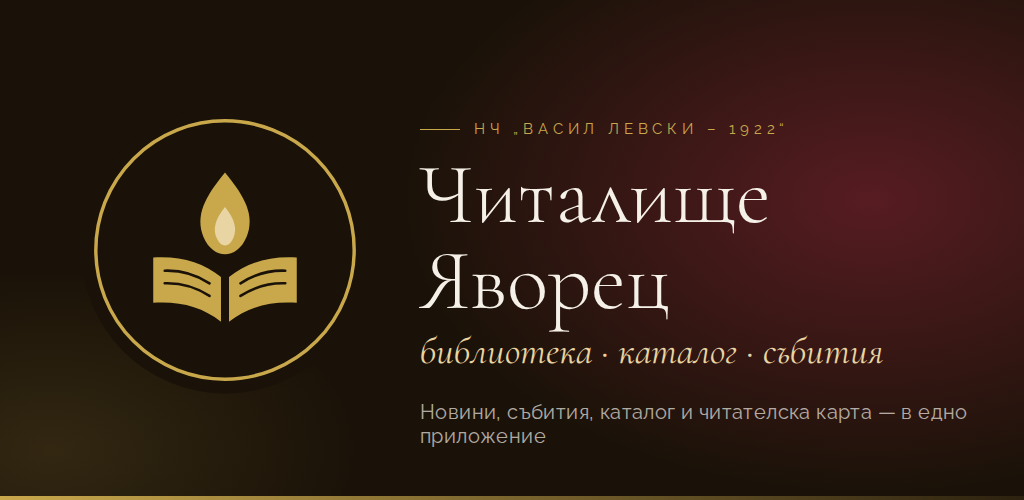
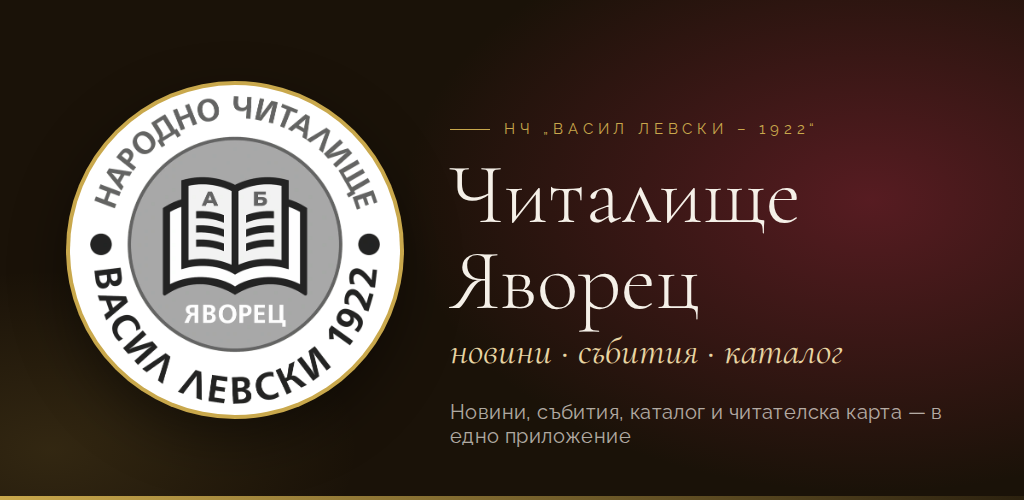
Docs and store graphics for the Vercel site and new branding
Claude-Session: https://claude.ai/code/session_01RYYSxVu9vthp794EkkqTGn

diff --git a/ANALYSIS.md b/ANALYSIS.md
@@ -10,122 +10,85 @@
 
 ---
 
-## 0. Ограничения при самото проучване
+## 0. Как е проучено
 
-Средата, в която е писано приложението, **няма мрежов достъп** до
-`chyavorec.org`, `invlib.com` и `dl.google.com` (мрежовата политика отговаря с
-HTTP 403 на CONNECT). Затова проучването е направено по:
+Средата за разработка няма директен мрежов достъп до `chyavorec.org` и
+`invlib.com`, затова проучването е направено по първичните източници:
 
 | Източник | Как е достъпен | Надеждност |
 |---|---|---|
-| Изходният код на InvLib — [plam4o4o-source/yavorec-katalog](https://github.com/plam4o4o-source/yavorec-katalog) (Electron + SQLite, GPL-3.0) | пълно клониране | първичен източник: самият код на системата |
-| Реалният публикуван `katalog.json` (2 445 записа, генериран на 19.09.2026) | от същото хранилище | първичен: точно това, което приложението чете |
-| `site/page-katalog.html` — страницата „Електронен каталог“, която се поставя в chyavorec.org | от същото хранилище | първичен: показва как сайтът чете каталога |
-| Шаблоните и структурата на chyavorec.org (uCoz skeleton, Page Editor страници, модулни шаблони) | проектната документация на сайта | вторичен: адресите в менюто може да са се променили |
-| Търсене в интернет (индексирани страници на chyavorec.org, gabrovo.bg) | уеб търсачка | вторичен |
+| Изходният код на сайта — `plam4o4o-source/site-yavorec` (статичен сайт, хостван във Vercel, проект `chyavorec`) | клониране + Vercel API (production deployment от `main`) | първичен: точно това, което е публикувано |
+| Изходният код на InvLib — `plam4o4o-source/yavorec-katalog` (Electron + SQLite, GPL-3.0) | клониране | първичен |
+| Реалният `katalog.json` (2 445 записа) | от хранилището на InvLib | първичен |
 
-**Следствие:** всичко, което зависи от точната HTML разметка на живия сайт,
-е написано защитно (контролиран парсер с резервни варианти, откриване на
-страниците от менюто, кеш) и е покрито с тестове върху разметка, моделирана по
-шаблоните на сайта. Първото пускане срещу живия сайт трябва да се провери
-(виж „Проверка след първото пускане“ в края).
+Всички парсери са тествани върху **реалните файлове** на сайта
+(`data/news.json`, `rss.xml`, `javora/index.json`, `data/files.json`,
+страниците „Контакти“, „За нас“, „Фотодокументална изложба“).
 
 ---
 
-## 1. chyavorec.org
+## 1. chyavorec.org (Vercel)
 
 ### 1.1 Платформа
 
-Сайтът работи на **uCoz** (облачна CMS). Съдържанието се поддържа от:
+Сайтът е **статичен сайт във Vercel** (`vercel.json`: `cleanUrls`, HTTPS/HSTS,
+CSP). Страниците се генерират от `scripts/build-preview.py`; съдържанието на
+всяка страница е в `#hp .hp-inner`. Сайтът публикува структурирани данни:
 
-- **Template Builder** — главният „skeleton“ (навигация, начална страница `#hp`,
-  основна колона `#mc`);
-- **Page Editor** — отделни страници с адреси `/index/<име>/0-<N>`;
-- **модули**: „Новини на сайта“ (`/news/`), „Фотоалбуми“ (`/photo/`),
-  „Каталог на файлове“ (`/load/`), форми за контакт (`[EMAILFORM]`).
-
-Няма WordPress и няма WordPress REST API. uCoz има **uAPI**, но той изисква
-OAuth ключове на собственика на сайта и не е публичен — не се използва.
-
-### 1.2 Откъде идват данните — избран метод по приоритет
-
-| Данни | Източник | Метод | Приоритет по заданието |
-|---|---|---|---|
-| Новини | модул „Новини на сайта“ | **RSS 2.0** `https://chyavorec.org/news/rss/` (генерира се автоматично от uCoz) | 2. RSS |
-| Пълна статия | страницата на новината | контролирано извличане на `.eMessage` / `.eText` (стандартни uCoz класове) и персонализираните `ec-*` шаблони | 4. парсер (само за тялото) |
-| Галерия | модул „Фотоалбуми“ | **RSS** `https://chyavorec.org/photo/rss/`; албумите = категориите в RSS | 2. RSS |
-| Страници (история, библиотека, фолклорна група, клубове, проекти, дигитален клуб, дарения…) | Page Editor | откриване от менюто на началната страница + извличане на блокове от `#mc` | 3./4. |
-| Събития | няма отделен модул; има страница „Събития“ и новини в категория | новини с категория „Събития“ + блокове със заглавие и дата от страницата „Събития“ | 2. + 4. |
-| Контакти | страница „Контакти“ | `tel:` / `mailto:` връзки, адрес и работно време от текста | 4. |
-| Политика за поверителност | ако има страница в менюто | откриване от менюто (заглавие съдържа „поверителност“/„лични данни“) | 3. |
-
-Известните адреси на страниците (от менюто на сайта към момента на анализа) —
-използват се само като резервен вариант, ако менюто не се зареди:
-
-| Раздел | Адрес |
-|---|---|
-| Събития | `/index/events/0-58` |
-| Библиотека | `/index/library/0-59` |
-| Фолклорна група | `/index/folklorna_grupa/0-60` |
-| Народни танци | `/index/tancov_klub/0-61` |
-| Клубове и кръжоци | `/index/klubove_i_krzhoci/0-62` |
-| Проекти | `/index/proekti/0-63` |
-| История | `/index/history/0-64` |
-| Контакти | `/index/kontakti/0-65` |
-| Електронен каталог | `/index/elektronen_katalog/0-70` |
-
-Реализация: `shared/src/main/kotlin/org/chyavorec/data/site/` —
-`UcozRssParser`, `HtmlContentExtractor`, `SiteLinkClassifier`,
-`EventExtractor`, `ContactsExtractor`, `ChyavorecSiteService`.
-
-### 1.3 Защо не „fragile scraping“
-
-- Новините и снимките идват от **структурирани RSS емисии**, не от HTML.
-- Страниците се превръщат в **семантични блокове** (заглавие, параграф, списък,
-  снимка, цитат, файл), а не се копират като HTML — промяна в CSS на сайта не
-  чупи приложението.
-- Навигацията се **открива** от менюто → нова страница в сайта (напр.
-  „Дигитален клуб“) се появява в приложението без нова версия.
-- Всичко се **кешира** и при грешка се показват последните данни с дата.
-- Няма WebView за съдържание (само Custom Tab за външни връзки).
-
-### 1.4 Визуална идентичност (от дизайн системата на сайта)
-
-| Токен | Стойност | Употреба в приложението |
+| Данни | Адрес | Формат |
 |---|---|---|
-| ink | `#1A1208` | тъмен фон, тъмна тема, splash |
-| gold | `#C9A84C` | акцент, иконата, етикети |
-| gold-dark | `#8B6914` | primary в светлата тема |
-| gold-light | `#E8D5A3` | primaryContainer, акценти върху тъмно |
-| burgundy | `#6B1F2A` | secondary, курсивни акценти, картата |
-| cream | `#FAF7F2` | фон на светлата тема |
-| parchment | `#F5F0E8` | карти |
-| Заглавия | Cormorant Garamond (300/400/600, курсив) | включен шрифт (OFL), с кирилица |
-| Текст | Raleway (300–700) | включен шрифт (OFL), с кирилица |
+| Новини | `/data/news.json` | JSON: `id, title, date, category, excerpt, content (HTML), cover, tags, author` |
+| Публични адреси на новините | `/rss.xml` | RSS 2.0 (`/news/<slug>`) |
+| Търсещ индекс | `/javora/index.json` | JSON: 160 документа — `page`, `history`, `event`, `archive`, `publication`, `document`, `news` |
+| Календар на събитията | `/javora/index.json` (`type: "event"`) | `day`, `month`, `monthNum`, `badge` (категория), `excerpt` — **годишен** календар |
+| Документи | `/data/files.json` | `title, date, category, size, url (PDF), description` |
+| Исторически публикации | `/javora/index.json` (`type: "publication"`) | `fileUrl` към PDF статиите от юбилейния вестник |
+| Празник на деня | `/api/calendar?d=Г-М-Д` | Vercel функция: `{"date","line"}` (вчера/днес/утре) |
+| Страница | `/<адрес>` | HTML, съдържание в `#hp .hp-inner` |
 
-Стилови елементи на сайта, пренесени в native вид: „етикет над заглавие“
-(малки главни букви + златна линия), тъмни „hero“ ленти с бордо градиент,
-корици на книги в цвета на раздела по УДК (същата палитра като
-„Електронен каталог“, проверена за WCAG AA).
+### 1.2 Избран метод
 
-Логото на сайта не можа да бъде изтеглено (няма достъп) — приложението
-използва **нова емблема**, изградена от идентичността: златен пламък над
-отворена книга („огнище на просвета“ — формулировка от описанието на
-читалището) върху мастилен фон. Ако читалището предпочете официалното лого,
-то се заменя в `app/src/main/res/drawable/ic_emblem.xml` и
-`ic_launcher_foreground.xml`.
+Приоритет по заданието: **2. JSON/RSS** за всичко, което сайтът публикува
+структурирано (новини с пълния текст, събития, документи, публикации, индекс
+за търсене). **4. контролиран парсер** само за съдържанието на отделните
+страници („За нас“, „История“, „Библиотека“, групите, проектите…) — извличат се
+семантични блокове (заглавия, параграфи, списъци, снимки, цитати, PDF файлове),
+а анимираните броячи получават стойностите си от `data-target`.
 
-### 1.5 Данни за организацията
+Разделите на сайта се разпознават по адреса (`/about`, `/history`,
+`/library`, `/folklorna-grupa`, `/tancov-klub`, `/yavorski-hlapeta`,
+`/klubove-i-krzhoci`, `/proekti`, `/darenija`, `/selo-yavorec`, `/nature`,
+`/fotodokumentalna-izlozhba`, `/istoricheski-publikacii`, `/kontakti`,
+`/policy`, `/dostapnost`, `/load`, `/events`, `/elektronen-katalog`).
+Нова страница в индекса на сайта се появява в „Дейности“ без нова версия.
 
-- Име: Народно читалище „Васил Левски – 1922“, с. Яворец, общ. Габрово
-- Основано: 14 февруари 1922 г.
-- Имейл: chitalishte_yavorets@abv.bg
-- Facebook: https://www.facebook.com/nchvasillevski1922/
-- Библиотека: 7 200+ тома (по данни от сайта)
+Галерията се събира от кориците на новините и снимките в страниците
+(фотодокументалната изложба — с подписите на експонатите, групите, селото,
+природата, историята, библиотеката, проектите).
 
-Адрес, телефон и работно време **не са вписани в кода** — четат се от
-страницата „Контакти“. При неуспех се показват само имейл, сайт и Facebook с
-ясна бележка.
+### 1.3 Визуална идентичност
+
+- **Логото на читалището** (кръгъл печат „Народно читалище · Васил Левски 1922 ·
+  Яворец“ с отворена книга „А Б“) — икона на приложението (adaptive + монохромна
+  за Android 13), splash екран, анимираното въведение, заглавната лента.
+- **Логото на електронния каталог** — в заглавието на екрана „Каталог“.
+- **Логото на InvLib** — „данни от InvLib“ в каталога и в „За приложението“.
+- **Логото на създателя (ПХ)** — в „За приложението“.
+- Палитрата и шрифтовете на сайта: мастило `#1A1208`, злато `#C9A84C`,
+  бордо `#6B1F2A`, пергамент `#FAF7F2`; Cormorant Garamond за заглавия,
+  Raleway за текст (същите шрифтове като на сайта).
+
+### 1.4 Данни за организацията (от страниците „За нас“ и „Контакти“)
+
+- Народно читалище „Васил Левски – 1922“, основано на **17 декември 1922 г.**
+- Адрес: пл. 9-ти Септември 3, с. Яворец, общ. Габрово, обл. Габрово, ПК 5334
+- Председател: Пламен Христов · Секретар: Даниела Цвяткова
+- Имейл: chitalishte_yavorets@abv.bg · Facebook: nchvasillevski1922
+- Работно време: пон.–чет. 08:00–16:30, пет. 08:00–16:00, съб.–нед. почивни дни
+- Телефон **не е публикуван** на сайта — приложението не показва измислен.
+
+Приложението чете тези данни от страницата „Контакти“; вградени са само
+адресът и имейлът като резервен вариант, ако страницата не се зареди.
 
 ---
 
@@ -254,17 +217,13 @@ GitHub: `plam4o4o-source/yavorec-katalog`.
 
 ---
 
-## 4. Проверка след първото пускане (срещу живия сайт)
+## 4. Проверка след първото пускане
 
-Понеже средата за разработка нямаше достъп до chyavorec.org, при първото
-пускане трябва да се провери (5 минути):
+Интеграцията е тествана върху реалните файлове на сайта. При промени в сайта
+провери, че:
 
-1. **Новини** — зареждат ли се (RSS `/news/rss/` трябва да е включен в
-   настройките на модула „Новини“ в uCoz — по подразбиране е включен).
-2. **Галерия** — RSS `/photo/rss/` (включен в модула „Фотоалбуми“).
-3. **Дейности** — появяват ли се страниците от менюто; ако някоя липсва,
-   провери дали е в менюто на началната страница.
-4. **Контакти** — извлечени ли са телефон, имейл, адрес, работно време.
-5. **Събития** — за най-добър резултат новините за събития да са в категория
-   „Събития“ и в текста да има дата („12 октомври 2026 г., 18:00 ч.“),
-   „Място: …“ и „Организатор: …“.
+1. `/data/news.json` и `/javora/index.json` остават публични (не се изключват
+   от `.vercelignore`);
+2. ключовете в JSON файловете не са преименувани (парсерите пропускат
+   непознатите полета, но се нуждаят от `title`, `date`, `day`/`monthNum`);
+3. съдържанието на страниците остава в `#hp .hp-inner`.

diff --git a/docs/API.md b/docs/API.md
@@ -7,79 +7,90 @@
 
 | # | Източник | Статус | Код |
 |---|---|---|---|
-| 1 | chyavorec.org (uCoz): RSS + страници | ✅ съществува | `shared/.../data/site/` |
+| 1 | chyavorec.org (статичен сайт във Vercel): JSON данни + страници | ✅ съществува | `shared/.../data/site/` |
 | 2 | Публичен каталог на InvLib (`katalog.json` в GitHub) | ✅ съществува | `shared/.../data/catalog/` |
 | 3 | Онлайн API на InvLib за читатели | ❌ **не съществува — предложение** | `shared/.../data/invlib/RemoteInvLibClient.kt` |
 
 ---
 
-## 1. chyavorec.org
+## 1. chyavorec.org (Vercel)
 
 Всички заявки: `GET`, HTTPS, `User-Agent: ChitalishteYavorec-Android/<версия>`.
-Кодировката се определя от заглавката `Content-Type` или XML/HTML декларацията.
+Изходен код на сайта: `plam4o4o-source/site-yavorec`. Реализация:
+`ChyavorecSiteService`, `SiteJsonParser`, `HtmlContentExtractor`,
+`ContactsExtractor`, `SiteLinkClassifier`.
 
-### 1.1 Новини — `GET /news/rss/`
+### 1.1 Новини — `GET /data/news.json` (+ `GET /rss.xml`)
 
-RSS 2.0, генериран от модула „Новини на сайта“ на uCoz.
+```json
+[{ "id": "news-mu7bidhw0ujc", "title": "…", "date": "2026-08-30", "category": "Състави",
+   "excerpt": "…", "content": "<p>…</p>", "cover": "/assets/uploads/news/….webp",
+   "tags": ["…"], "author": "pacho" }]
+```
 
-| RSS елемент | Поле в приложението |
+| Поле | В приложението |
 |---|---|
-| `item/title` | `NewsArticle.title` (празните се пропускат) |
-| `item/link` | `url` (http → https) |
-| `item/guid` | `id` (ако липсва — `link`) |
-| `item/pubDate` (RFC 1123) | `publishedAtMillis` |
-| `item/description` (HTML) | `summary` (текст, до 400 знака) + първата снимка |
-| `item/content:encoded` | `contentBlocks` (ако има) |
-| `item/category` | `category` |
-| `item/author` / `dc:creator` | `author` |
-| `enclosure[type^=image]`, `media:content` | `imageUrl` (приоритет) |
+| `id` | `NewsArticle.id` |
+| `title`, `excerpt`, `category`, `author` | заглавие, резюме, категория, автор |
+| `date` (ISO) | дата на публикуване (Europe/Sofia) |
+| `cover` | снимка (абсолютен адрес) |
+| `content` (HTML) | пълен текст → `ContentBlock`-ове (без втора заявка) |
 
-### 1.2 Пълна новина — `GET <link на новината>`
+Публичният адрес `/news/<slug>` (за споделяне и „Отвори в сайта“) идва от
+`/rss.xml` по заглавие; ако RSS не се зареди — `/news`.
 
-Основният контейнер се търси по ред: `.eMessage`, `.eText`,
-`.ec-message-text`, `.nf-body`, `#mc`, `main`, `article`, `#content`.
-Премахват се: скриптове, стилове, форми, навигация, `#hp`, скритите елементи,
-панелите с детайли/коментари/споделяне на uCoz. Резултатът е списък от
-`ContentBlock` (Heading, Paragraph с форматиране и връзки, BulletList, Quote,
-Image, LinkButton за PDF/DOC файлове). Иконки, емотикони и изображения под
-48 px се игнорират.
+### 1.2 Търсещ индекс — `GET /javora/index.json`
 
-### 1.3 Галерия — `GET /photo/rss/`
+`{"generated": "2026-09-26", "count": 160, "docs": [...]}`. Всеки документ има
+`id, type, title, url, excerpt, text` и според типа:
 
-RSS на модула „Фотоалбуми“. `category` = албум. Миниатюрата
-`/_ph/<N>/2/<id>.jpg` → оригинал `/_ph/<N>/<id>.jpg` (при грешка се показва
-миниатюрата).
+| `type` | Допълнителни полета | Използва се за |
+|---|---|---|
+| `page`, `history` | — | раздели на сайта („Дейности“, „За читалището“) |
+| `event` | `day`, `month`, `monthNum`, `badge` | календар на събитията |
+| `archive` | `date`, `category` | търсене (експонати от изложбата) |
+| `publication` | `fileUrl`, `category` | исторически публикации (PDF) |
+| `document` | `fileUrl`, `date`, `category`, `size` | търсене |
+| `news` | `date`, `category`, `cover` | (новините се четат от news.json) |
 
-### 1.4 Навигация — `GET /`
+**Събития.** Календарът е годишен (ден + месец). Датата на събитие е най-близкото
+предстоящо настъпване (29 февруари → 28 февруари в невисокосна година);
+кешираният календар се „превърта“ към следващата година при нужда.
+`badge` е категорията (напр. „Народен обичай“, „Библиотека“, „Читалище“).
 
-Връзките в началната страница към `/index/<име>/<N>-<N>`, `/news/`, `/photo/`,
-`/load/`, `/publ/`, `/blog/` се класифицират по заглавие (`SiteLinkClassifier`):
-ABOUT, HISTORY, LIBRARY, CATALOG, EVENTS, FOLKLORE, DANCE, CLUBS, PROJECTS,
-DIGITAL_CLUB, CONTACTS, GALLERY, NEWS, DOCUMENTS, DONATIONS, PUBLICATIONS,
-VILLAGE, PRIVACY, TERMS, OTHER. Системните страници на uCoz (`/index/0-N` —
-вход, регистрация) се изключват.
+### 1.3 Документи — `GET /data/files.json`
 
-### 1.5 Събития
+```json
+[{ "id": "file-…", "title": "Отчет за дейност 2025", "date": "2026-04-30",
+   "category": "Годишни отчети", "size": "393.1 KB",
+   "url": "/assets/uploads/files/….pdf", "description": "…" }]
+```
 
-Няма структуриран календар. Събитие се създава, когато:
+### 1.4 Празник на деня — `GET /api/calendar?d=Г-М-Д`
 
-1. новина е в категория, съдържаща „събити“, „афиш“, „покан“, „календар“,
-   „предстоящ“; **или**
-2. заглавието съдържа „събитийна“ дума (покана, концерт, празник, тържество,
-   изложба, среща, събор, вечер, честване, премиера, фестивал, конкурс,
-   работилница, спектакъл, четене, беседа) **и** в текста има изрична дата; **или**
-3. блок от страницата „Събития“ съдържа заглавие (`h1–h5`/`strong`) и дата.
+Vercel функция на сайта (кешира Православния календар). Приема само вчера,
+днес или утре (софийско време), напр. `?d=2026-9-26`.
+Отговор: `{"date":"2026-9-26","line":"… **Празник** …"}` — `**…**` се показва удебелено.
 
-Разпознавани формати: „12 октомври 2026 г.“, „12 окт. 2026“, „12.10.2026“,
-„18:00 ч.“, „18.30 часа“, „Място: …“, „Организатор: …“. Ако в новина от
-категория „Събития“ няма дата, се показва датата на публикуване с изрична
-бележка (`dateIsExplicit = false`).
+### 1.5 Страници — `GET /<адрес>`
 
-### 1.6 Контакти — страницата „Контакти“
+Съдържанието е в `#hp .hp-inner`. Премахват се скриптове, стилове, форми,
+навигация и скритите елементи; броячите (`data-target`) получават стойността
+си; изображения без истински адрес, логото и подписът се пропускат. Заглавието
+е `<title>` до „ | “.
 
-`tel:` и `mailto:` връзки, телефони (`0XXX…`, `+359…`) и имейли в текста;
-адрес — редът с „Яворец“/„ул.“/„пл.“; работно време — редове с интервал от
-часове и ден от седмицата.
+### 1.6 Контакти — страницата `/kontakti`
+
+Адресът (редовете след „Адрес“), лицата за контакт (Председател, Секретар),
+`mailto:`/`tel:` връзки, работното време (ден + часове, дори на отделни редове)
+и Facebook. Телефон се показва само ако е публикуван на сайта.
+
+### 1.7 Галерия
+
+Кориците на новините (албум „Новини“) и снимките в страниците:
+фотодокументална изложба (с подписите `.exh-caption-title`), фолклорна група,
+клуб за народни танци, „Яворски хлапета“, село Яворец, природа, история,
+библиотека, проекти, клубове.
 
 ---
 
